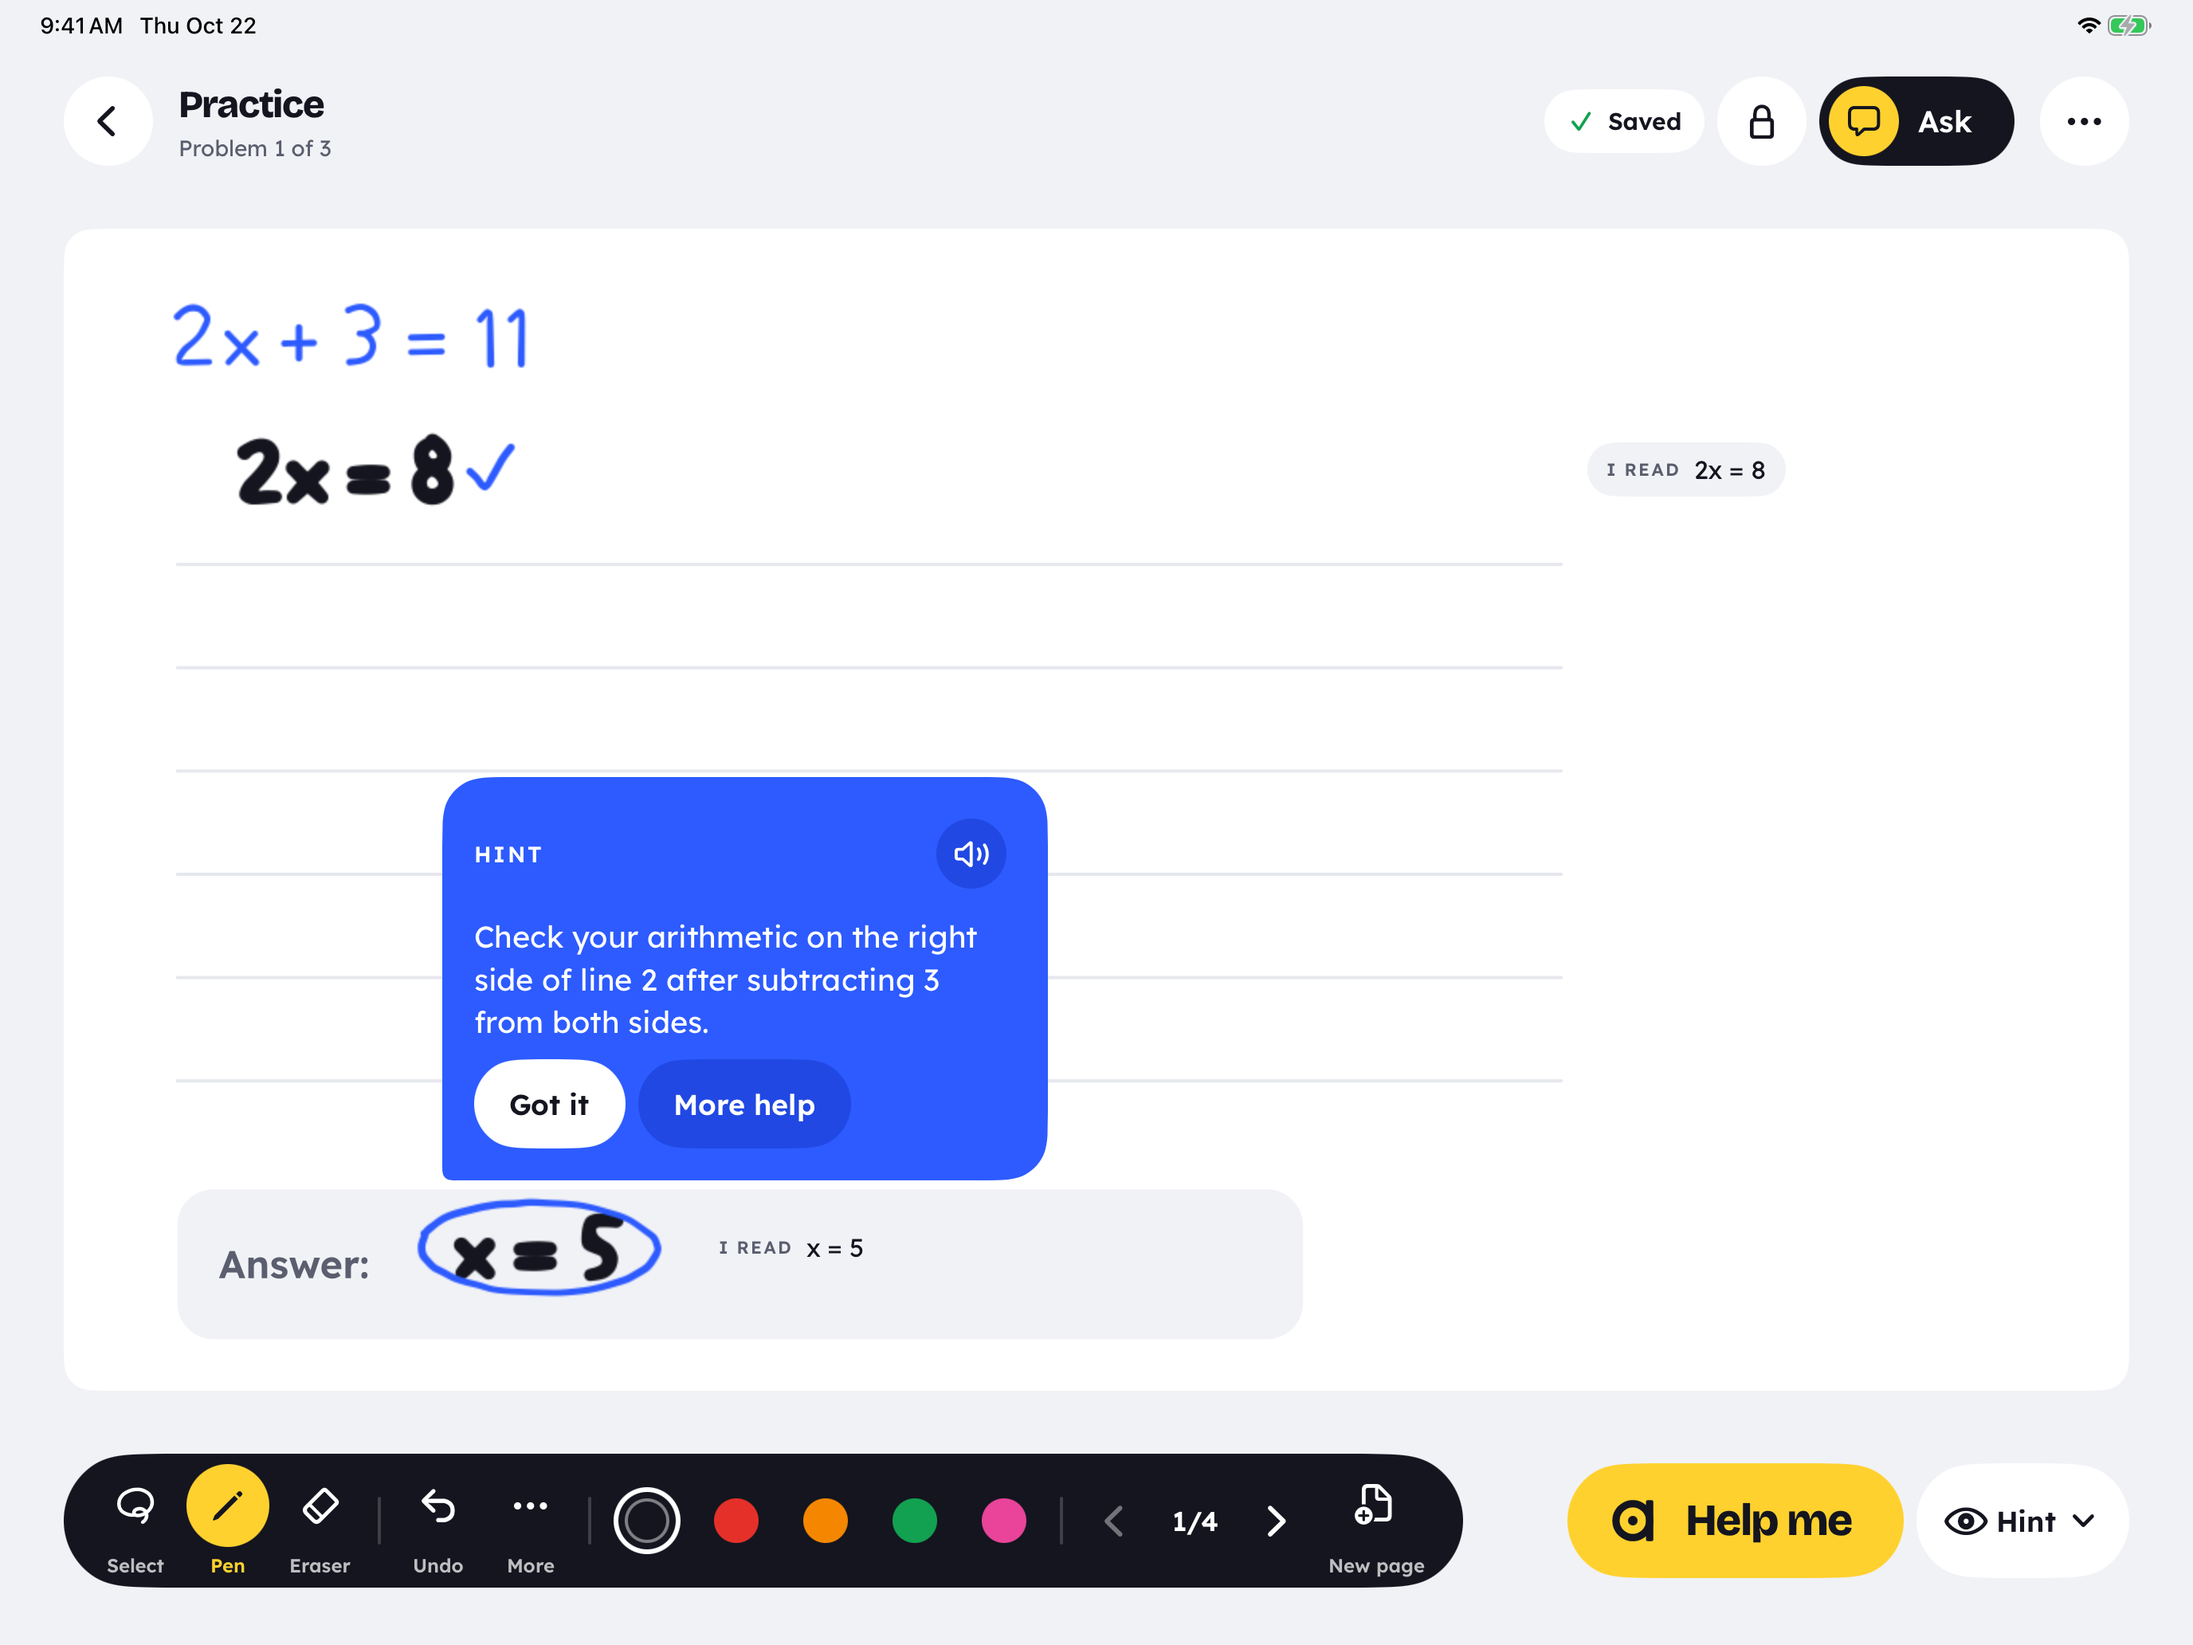
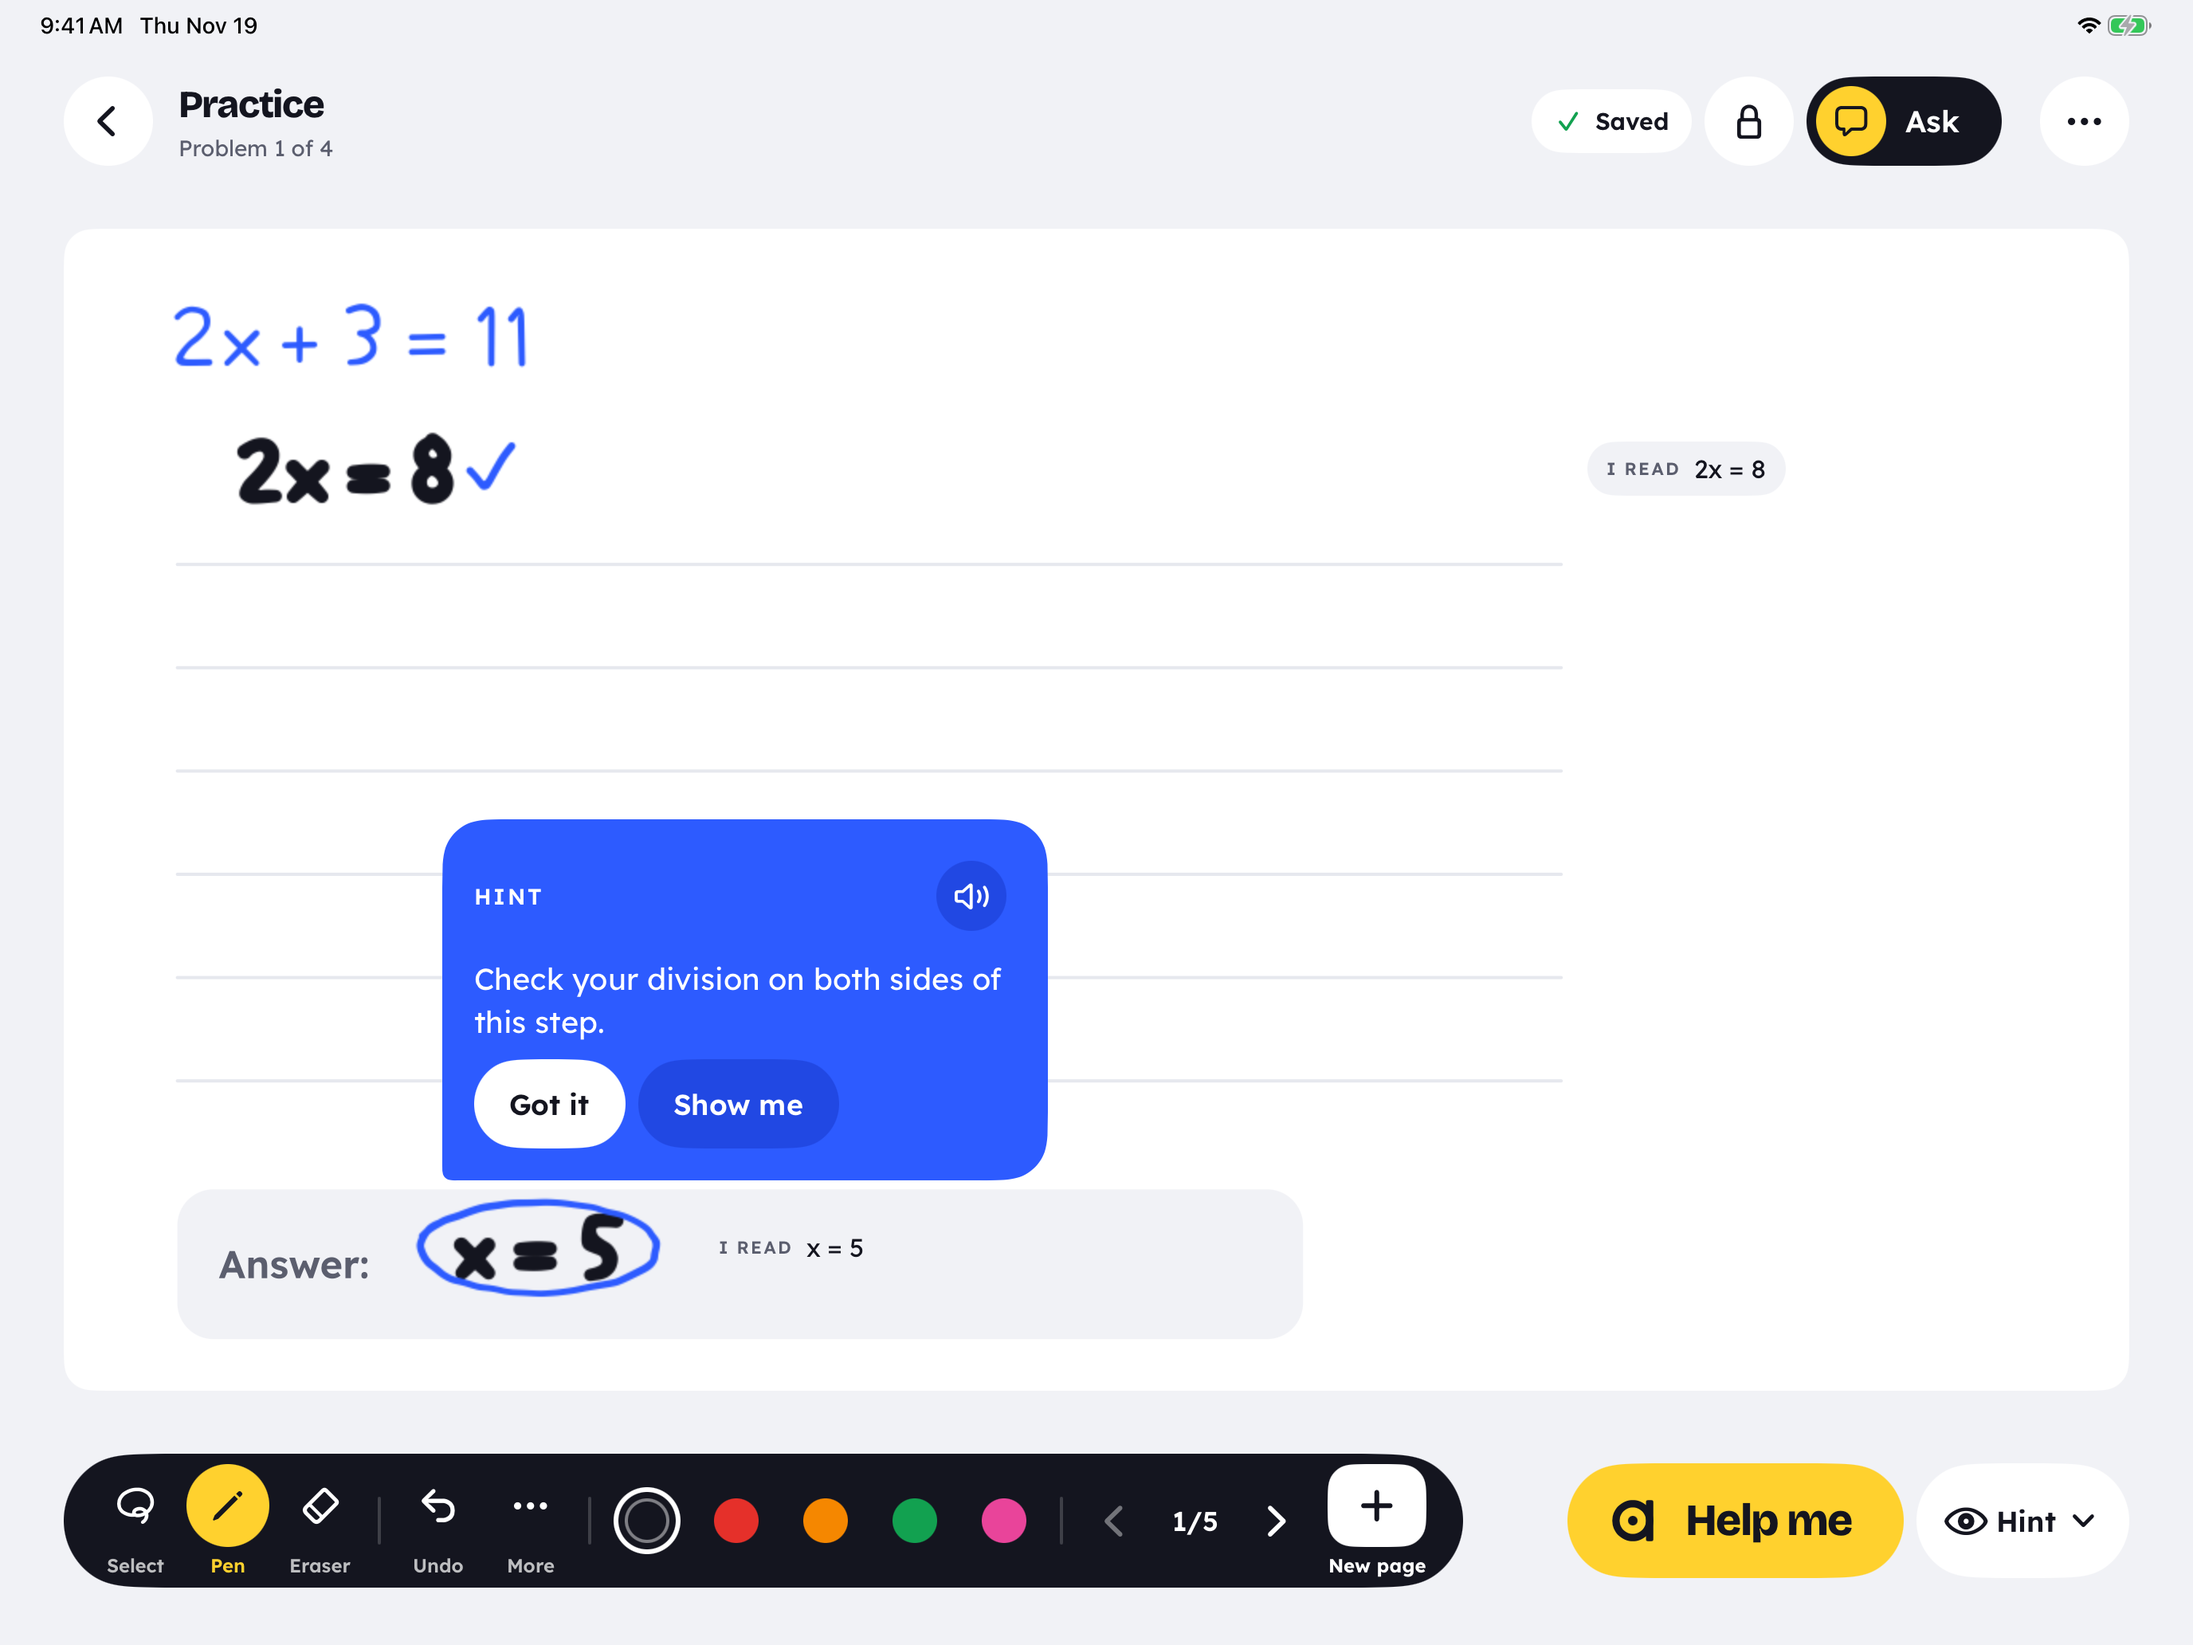
release(1.0): the App Store screenshots — seven iPad 13-inch shots from the local stack (a slip ringed with its hint, Show me writing the next step, a solved page, Ask drawing, Home, Progress, the first run's try), uploaded to App Store Connect; Show me's page uses lines the hands fixture has

diff --git a/ios/AgathonUITests/AppStoreScreenshotUITests.swift b/ios/AgathonUITests/AppStoreScreenshotUITests.swift
@@ -19,7 +19,7 @@ final class AppStoreScreenshotUITests: XCTestCase {
 
     /// Today's practice for the shots: page 1 a slip with its hint, page 2 solved, page 3 Show me (the
     /// tutor writes the next step), page 4 solved and All done.
-    private static let practice = "2x + 3 = 11|3x - 5 = 10|4(x - 2) = 20|5x + 2 = 17"
+    private static let practice = "2x + 3 = 11|3x - 5 = 10|x + x + 3 = 11|5x + 2 = 17"
     private static let pages = 4
 
     override func setUpWithError() throws {
@@ -123,11 +123,12 @@ final class AppStoreScreenshotUITests: XCTestCase {
     /// Show me: the kid's first step ticked, Help me's hint, then Show me — the tutor writes the next
     /// step under theirs in its own blue hand.
     func test2cShowMe() throws {
-        openPractice(lines: "4x - 8 = 20", page: 3)
-        write("4x - 8 = 20")
+        // (the kid's lines come from the hands fixture, kid-hands.json: only the lines it has)
+        openPractice(lines: "2x + 3 = 11", page: 3)
+        write("2x + 3 = 11")
         // check when done: a step with no answer yet is judged when the kid taps Check
         tap("live.check", wait: 30)
-        waitFor("debug.live", matching: #"4 ?x ?- ?8 ?= ?20=tick"#, timeout: 60)
+        waitFor("debug.live", matching: #"2 ?x ?\+ ?3 ?= ?11=tick"#, timeout: 60)
         noDebugUI()
         tap("live.helpMe", wait: 20)
         if element("live.helpChoice").waitForExistence(timeout: 3), app.buttons["Hint"].exists { app.buttons["Hint"].firstMatch.tap() }

diff --git a/docs/RELEASE-1.0.md b/docs/RELEASE-1.0.md
@@ -32,7 +32,7 @@ owner says yes) · **OWNER** (only the account holder can, click path given).
 | Price | Free (DONE) |
 | Availability | **United States only** (DONE: 174 other territories off). **OWNER:** untick "make available in new countries or regions automatically" (the API refuses that switch: §5 step 3) |
 | Mac (Apple silicon) / Vision Pro, App Store | not in the API: **OWNER** §5 step 3 (Mac on, Vision Pro off) |
-| Screenshots | iPad 13-inch set: §4 |
+| Screenshots | iPad 13-inch set of 7 **uploaded** (DONE, §4) |
 | App Review information | **blocked on the contact phone** (ASC requires it): §3. Everything else is ready |
 | Unlimited subscription | **created** (§2); attach to 1.0 at submission (§5 step 5) |
 | App Store Server Notifications | Production + Sandbox `https://www.agathon.app/api/billing/apple/notifications`, Version 2 (DONE) |
@@ -58,7 +58,7 @@ owner says yes) · **OWNER** (only the account holder can, click path given).
 | Introductory offer | Free trial, 1 week, United States, new subscribers |
 | Review screenshot | `docs/app-store/iap-review-screenshot.png` (the plan screen: price, 7 days free, Start your free week, Restore purchases, Terms of Use, Privacy Policy, the auto-renewal words; the plan screen's code hasn't changed since it was made on 10-22) — uploaded, processed |
 | Review notes | "Reached from the grown-up's side: Home › Grown-ups › Account › Plan, behind a parental gate (type the digits of the number shown in words). The demo account and its PIN are in the app's review notes. Kids never see prices." |
-| State | `MISSING_METADATA` right after creation, with every field above filled and read back; ASC often takes a while to move it to **Ready to Submit**. If it still says Missing Metadata in the web page, open the subscription there: it names the missing field |
+| State | still `MISSING_METADATA` the next day (2026-11-20), with every field above filled and read back; ASC often takes a while to move it to **Ready to Submit**. If it still says Missing Metadata in the web page, open the subscription there: it names the missing field |
 
 A first subscription is submitted **with** the app: on the 1.0 page, "In-App Purchases and
 Subscriptions" › + › tick Agathon Unlimited (monthly) (§5 step 5). The API has no way to attach it
@@ -113,7 +113,29 @@ pastes it on the 1.0 page › App Review Information.
 
 ## 4. Screenshots
 
-SCREENSHOTS_PLACEHOLDER
+iPad 13-inch set, **uploaded to App Store Connect** (display type `APP_IPAD_PRO_3GEN_129`, all seven
+processed, in this order) and kept in `docs/app-store/screenshots/` (2752 × 2064 landscape, sRGB, no
+alpha). The 13-inch set covers every iPad and the Mac's "Designed for iPad" page; no Mac set is needed.
+
+| # | File | Shows |
+|---|---|---|
+| 1 | `01-hint-on-a-slip.png` | Problem 1 of 4: 2x + 3 = 11 in the tutor's blue, 2x = 8 ticked, the answer x = 5 gently ringed, the hint card ("Check your division on both sides of this step.") with Got it / Show me |
+| 2 | `02-show-me.png` | Problem 3 of 4: x + x + 3 = 11, the kid's 2x + 3 = 11 ticked, and the tutor's next step **2x = 8 written in its blue pen** under it, with the Next step card |
+| 3 | `03-problem-page-ticked.png` | Problem 2 of 4: 3x = 15 and x = 5 ticked, "I read" chips, Next problem |
+| 4 | `04-ask-draws.png` | Ask: "Why is 3/4 bigger than 5/8? Can you show me?", the answer, and the fraction bars it drew on the board |
+| 5 | `05-home.png` | Maya's Home: Today's practice, a 12-day streak, the 7th grade path, SAT practice, boards |
+| 6 | `06-progress.png` | Progress: this week (72 minutes, 26 problems, 8 on her own, 13 days), the last 4 weeks, skills |
+| 7 | `07-first-run-try.png` | The first run's try: "Your turn, Maya." 2x + 5 = 17, 2x = 12 and x = 6 ticked, "You got it.", her first star |
+
+How they were made: `SUPA_PORT=54331 scripts/ios-appstore-shots.sh` on "iPad Pro 13-inch (M5)" against
+the **local** stack (a made-up family `demo-family-…@example.com`, Maya, 7th grade, four weeks of
+seeded practice; synthetic handwriting from `kid-hands.json`; no real kids' data), status bar 9:41.
+The Debug build's version line on Progress and the simulator's window grabber are painted out by the
+script. Each was checked by eye. AI cost: under $0.01. The kid's handwriting is the autowriter's bold
+"clean hand" (as a marker would write), not a Pencil's thin line; re-shoot from a device if the owner
+wants a finer pen. Not used: All done (it shows three "Not yet"), Progress scrolled.
+
+The subscription's review screenshot is `docs/app-store/iap-review-screenshot.png` (§2).
 
 ---
 
@@ -124,6 +146,7 @@ SCREENSHOTS_PLACEHOLDER
 | 1 | appstoreconnect.apple.com › **Business** | Paid Apps Agreement **Active**, bank and tax forms complete. |
 | 2 | Apps › Agathon › **App Privacy** | Check each data type against APP-STORE-LAUNCH §6 (it matches `PrivacyInfo.xcprivacy`); **Publish**. |
 | 3 | Apps › Agathon › **Pricing and Availability** | Availability already reads United States only: **untick "Make available in new countries or regions automatically"**. Under **"iPhone and iPad Apps on Apple Silicon Macs"**: Make this app available (ticked). **Apple Vision Pro**: untick. Save. |
+| 3b | Apps › Agathon › Monetization › **Subscriptions** › Agathon Unlimited › Agathon Unlimited (monthly) | It reads **Missing Metadata** through the API although every field is filled (price, US availability, free week, localization, review screenshot and notes). The page names what is missing (often the Paid Apps agreement, or a newer field such as the group-purchase / multi-seat settings this account has on); fix it there so it reads **Ready to Submit**. |
 | 4 | Send the release lane the **contact phone** (or paste it: 1.0 page › App Review Information › Contact Information) | ASC won't save the review information without it. |
 | 5 | When the build is approved by you: 1.0 page › **Build** › pick it; **In-App Purchases and Subscriptions** › + › tick Agathon Unlimited (monthly); **Add for Review** › Submit | Only on the owner's OK. "Advertising Identifier?" No. Release stays Manual. |
 | 6 | (Recommended) Users and Access › **Sandbox** › Test Accounts › + | One sandbox Apple Account to buy the free week yourself on the TestFlight build first. |
